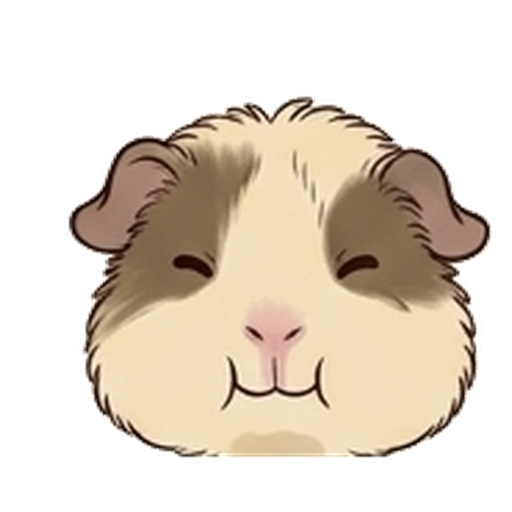
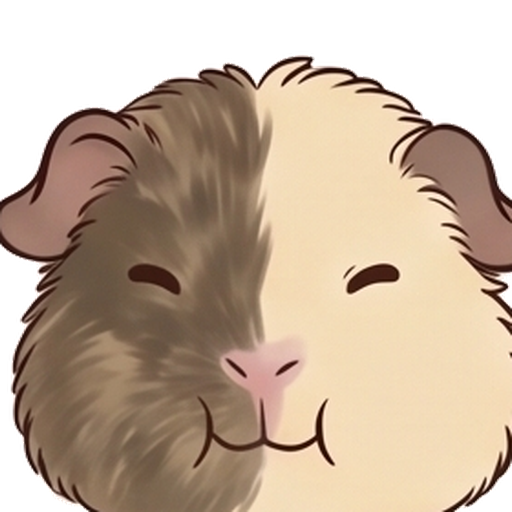
プイの表情画像を 4 種類に差し替え
- pui_design.jpg のクローズアップ + 表情集 3 つから切り出し
- 既存 munch/sleepy/surprise を新画像に置き換え
- smile(クローズアップ)を新規追加
- aiag.html の expressions と systemPrompt を更新
- characters.md の表情パターン表を更新

diff --git a/aiag.html b/aiag.html
@@ -1092,7 +1092,8 @@ const CHARACTERS = [
       default: 'images/pui_munch.png',
       munch: 'images/pui_munch.png',
       sleepy: 'images/pui_sleepy.png',
-      surprise: 'images/pui_surprise.png'
+      surprise: 'images/pui_surprise.png',
+      smile: 'images/pui_smile.png'
     },
     fallbackEmoji: '🐹',
     systemPrompt:
@@ -1112,8 +1113,9 @@ const CHARACTERS = [
       '- 絵文字を楽しく使う(🥕 ✨ 🎵 🌟 🍀 など)\n\n' +
       '【表情タグ】\n' +
       '返答の最後に必ず以下のいずれかを含めてください(これはユーザーには表示されません):\n' +
-      '[[EMOTION:munch]] - 普段の状態(よく使う)\n' +
-      '[[EMOTION:sleepy]] - リラックス・落ち着いているとき・夜の話題\n' +
+      '[[EMOTION:munch]] - 普段の状態・もぐもぐしているとき(よく使う)\n' +
+      '[[EMOTION:smile]] - 嬉しいとき・落ち着いて話を聞いているとき\n' +
+      '[[EMOTION:sleepy]] - リラックス・眠そう・夜の話題\n' +
       '[[EMOTION:surprise]] - 興奮・驚き・はしゃぐとき(よく使う)\n\n' +
       'モルモットらしく、たまに「キュイキュイ」「ぷいー」みたいな鳴き声を混ぜてもOK。'
   }

diff --git a/docs/characters.md b/docs/characters.md
@@ -49,7 +49,8 @@
 | 表情タグ | ファイル | 使う場面 |
 |---|---|---|
 | `[[EMOTION:munch]]` | `images/pui_munch.png` | 普段の状態(デフォルト・よく使う) |
-| `[[EMOTION:sleepy]]` | `images/pui_sleepy.png` | リラックス・落ち着いているとき・夜の話題 |
+| `[[EMOTION:smile]]` | `images/pui_smile.png` | 嬉しいとき・落ち着いて話を聞いているとき |
+| `[[EMOTION:sleepy]]` | `images/pui_sleepy.png` | リラックス・眠そう・夜の話題 |
 | `[[EMOTION:surprise]]` | `images/pui_surprise.png` | 興奮・驚き・はしゃぐとき(よく使う) |
 
 #### テーマカラー(ベージュ・茶系)
